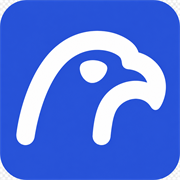
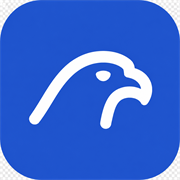
align Falqo app with cobalt brand system

diff --git a/resources/css/app.css b/resources/css/app.css
@@ -10,6 +10,7 @@
 
 @theme {
     --font-sans: 'Instrument Sans', ui-sans-serif, system-ui, sans-serif, 'Apple Color Emoji', 'Segoe UI Emoji', 'Segoe UI Symbol', 'Noto Color Emoji';
+    --font-brand: 'Poppins', ui-sans-serif, system-ui, sans-serif;
 
     --color-zinc-50: #fafafa;
     --color-zinc-100: #f5f5f5;
@@ -23,17 +24,17 @@
     --color-zinc-900: #171717;
     --color-zinc-950: #0a0a0a;
 
-    --color-falqo-50: #fdf6f3;
-    --color-falqo-100: #f9e8e1;
-    --color-falqo-200: #f2cfc2;
-    --color-falqo-300: #e8aa93;
-    --color-falqo-400: #d97f5f;
-    --color-falqo-500: #bd603f;
-    --color-falqo-600: #9a4f36;
-    --color-falqo-700: #7d402e;
-    --color-falqo-800: #67372a;
-    --color-falqo-900: #562f26;
-    --color-falqo-950: #2f1712;
+    --color-falqo-50: #eef3ff;
+    --color-falqo-100: #dce6ff;
+    --color-falqo-200: #b9cdff;
+    --color-falqo-300: #8eaeff;
+    --color-falqo-400: #6289f4;
+    --color-falqo-500: #4168e0;
+    --color-falqo-600: #2952cc;
+    --color-falqo-700: #2143a8;
+    --color-falqo-800: #1f3987;
+    --color-falqo-900: #1e326b;
+    --color-falqo-950: #142047;
 
     --color-accent: var(--color-falqo-600);
     --color-accent-content: var(--color-falqo-700);
@@ -89,4 +90,6 @@ select:focus[data-flux-control] {
     .eyebrow { @apply text-xs font-semibold uppercase tracking-[0.14em] text-falqo-600 dark:text-falqo-400; }
     .stat-card { @apply relative overflow-hidden rounded-2xl border border-zinc-200/80 bg-white p-5 shadow-sm shadow-zinc-950/5 transition duration-200 hover:-translate-y-0.5 hover:shadow-md dark:border-white/10 dark:bg-zinc-900 dark:shadow-black/20; }
     .status-dot { @apply size-2 rounded-full bg-emerald-500 shadow-[0_0_0_4px] shadow-emerald-500/10; }
+    [data-flux-sidebar-brand].brand-wordmark > div:last-of-type,
+    [data-flux-brand].brand-wordmark > div:last-of-type { font-family: var(--font-brand); font-size: 1.125rem; font-weight: 700; letter-spacing: -0.02em; }
 }

diff --git a/vite.config.js b/vite.config.js
@@ -18,6 +18,9 @@ export default defineConfig({
                 bunny('Instrument Sans', {
                     weights: [400, 500, 600],
                 }),
+                bunny('Poppins', {
+                    weights: [600, 700],
+                }),
             ],
         }),
         tailwindcss(),

diff --git a/resources/views/components/app-logo.blade.php b/resources/views/components/app-logo.blade.php
@@ -3,15 +3,15 @@
 ])
 
 @if($sidebar)
-    <flux:sidebar.brand :name="config('app.name', 'Laravel')" {{ $attributes }}>
-        <x-slot name="logo" class="flex aspect-square size-7 items-center justify-center">
-            <x-app-logo-icon class="size-7 rounded-md object-contain" />
+    <flux:sidebar.brand :name="config('app.name', 'Laravel')" {{ $attributes->class('brand-wordmark') }}>
+        <x-slot name="logo" class="flex aspect-square !size-[34px] items-center justify-center !rounded-[10px]">
+            <x-app-logo-icon class="size-[34px] object-contain" />
         </x-slot>
     </flux:sidebar.brand>
 @else
-    <flux:brand :name="config('app.name', 'Laravel')" {{ $attributes }}>
-        <x-slot name="logo" class="flex aspect-square size-7 items-center justify-center">
-            <x-app-logo-icon class="size-7 rounded-md object-contain" />
+    <flux:brand :name="config('app.name', 'Laravel')" {{ $attributes->class('brand-wordmark') }}>
+        <x-slot name="logo" class="flex aspect-square !size-[34px] items-center justify-center !rounded-[10px]">
+            <x-app-logo-icon class="size-[34px] object-contain" />
         </x-slot>
     </flux:brand>
 @endif
